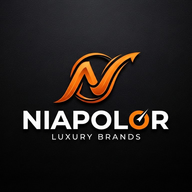
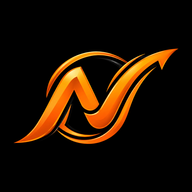
chore: update PWA assets and configuration
Refresh PWA icons to v3, update web manifest settings, and adjust cache headers for icons.

diff --git a/src/components/Footer.tsx b/src/components/Footer.tsx
@@ -1,14 +1,45 @@
-import React from 'react';
+import React, { useEffect, useState } from 'react';
 import { useStore } from '../context/StoreContext';
 import { 
   Phone, 
   Mail, 
   MapPin, 
-  Truck
+  Truck,
+  Download
 } from 'lucide-react';
+import {
+  getDeferredInstallPrompt,
+  isIosDevice,
+  isStandalonePWA,
+  triggerPwaInstallPrompt,
+} from '../lib/notifications';
 
 export const Footer: React.FC = () => {
   const { siteSettings, language, t, setCurrentView, setIsSupportModalOpen } = useStore();
+  const [canInstallPwa, setCanInstallPwa] = useState(false);
+  const [showIosTip, setShowIosTip] = useState(false);
+
+  useEffect(() => {
+    const refresh = () => {
+      setCanInstallPwa(!isStandalonePWA() && (Boolean(getDeferredInstallPrompt()) || isIosDevice()));
+    };
+    refresh();
+    window.addEventListener('echox_pwa_install_ready', refresh);
+    window.addEventListener('echox_pwa_installed', refresh);
+    return () => {
+      window.removeEventListener('echox_pwa_install_ready', refresh);
+      window.removeEventListener('echox_pwa_installed', refresh);
+    };
+  }, []);
+
+  const handleInstallClick = async () => {
+    if (getDeferredInstallPrompt()) {
+      const outcome = await triggerPwaInstallPrompt();
+      if (outcome === 'accepted') setCanInstallPwa(false);
+    } else if (isIosDevice()) {
+      setShowIosTip((prev) => !prev);
+    }
+  };
 
   const handleLinkClick = (view: string) => {
     setCurrentView(view);
@@ -51,6 +82,39 @@ export const Footer: React.FC = () => {
               <Truck className="w-4 h-4 text-[#FF6B00] shrink-0" />
               <span className="font-semibold text-[11px]">{t.footer.deliveryAllTunisia || 'شحن سريع وتوصيل لجميع الـ 24 ولاية'}</span>
             </div>
+
+            {canInstallPwa && (
+              <div className="space-y-2">
+                <button
+                  type="button"
+                  onClick={handleInstallClick}
+                  className="w-full p-2.5 bg-[#0B0B0D] dark:bg-[#141418] hover:border-[#FF6B00] text-white rounded-xl border border-[#23232A] text-xs font-bold flex items-center justify-between gap-2.5 transition-colors cursor-pointer"
+                >
+                  <span className="flex items-center gap-2.5">
+                    <img
+                      src="/pwa-any-192-v3.png"
+                      alt="NIAPOLOR App"
+                      width={24}
+                      height={24}
+                      className="w-6 h-6 rounded-lg object-cover shrink-0 border border-[#FF6B00]/35"
+                    />
+                    <span className="text-[11px]">
+                      {language === 'ar'
+                        ? 'تثبيت تطبيق NIAPOLOR على هاتفك'
+                        : language === 'fr'
+                        ? 'Installer l’application NIAPOLOR'
+                        : 'Install NIAPOLOR App'}
+                    </span>
+                  </span>
+                  <Download className="w-4 h-4 text-[#FF6B00] shrink-0" />
+                </button>
+                {showIosTip && (
+                  <p className="p-2.5 rounded-xl bg-white dark:bg-[#141418] border border-[#E6E2D8] dark:border-[#23232A] text-[10px] text-[#5A5854] dark:text-[#B5B0A8] leading-relaxed">
+                    على Safari: اضغط زر <strong>المشاركة (Share)</strong> ثم اختر <strong>إضافة إلى الشاشة الرئيسية (Add to Home Screen)</strong>.
+                  </p>
+                )}
+              </div>
+            )}
           </div>
 
           {/* 2. روابط التصفح السريعة */}

diff --git a/vite.config.ts b/vite.config.ts
@@ -16,14 +16,14 @@ const CORE_BRAND_IMAGES = [
   '/assets/images/product_drill_cordless_pro.webp',
   '/assets/images/product_automotive_headlight.webp',
   '/assets/images/product_digital_multimeter.webp',
+  '/manifest.json',
   '/manifest.webmanifest',
-  '/pwa-any-192-v2.png',
-  '/pwa-any-192-v2.webp',
-  '/pwa-any-512-v2.png',
-  '/pwa-any-512-v2.webp',
-  '/pwa-maskable-192-v2.png',
-  '/pwa-maskable-512-v2.png',
-  '/apple-touch-icon-v2.png',
+  '/pwa-any-192-v3.png',
+  '/pwa-any-512-v3.png',
+  '/pwa-maskable-192-v3.png',
+  '/pwa-maskable-512-v3.png',
+  '/apple-touch-icon-v3.png',
+  '/favicon-v3.png',
 ];
 
 function collectDistFiles(rootDir: string, currentDir: string, out: string[] = []): string[] {
@@ -44,7 +44,7 @@ function buildPrecacheManifest(distDir: string) {
   const allFiles = collectDistFiles(distDir, distDir).sort();
   const hash = crypto.createHash('sha256');
 
-  const coreSet = new Set<string>(['/', '/index.html', '/manifest.webmanifest']);
+  const coreSet = new Set<string>(['/', '/index.html', '/manifest.json', '/manifest.webmanifest']);
   const optionalSet = new Set<string>();
 
   for (const rel of allFiles) {
@@ -61,16 +61,19 @@ function buildPrecacheManifest(distDir: string) {
       rel === '/assets/images/niapolor-logo-full.webp' ||
       rel === '/assets/images/echox-logo.webp' ||
       rel === DARK_LOGO_PATH ||
-      rel === '/pwa-any-192-v2.png' ||
-      rel === '/pwa-any-512-v2.png' ||
-      rel === '/apple-touch-icon-v2.png'
+      rel === '/pwa-any-192-v3.png' ||
+      rel === '/pwa-any-512-v3.png' ||
+      rel === '/pwa-maskable-192-v3.png' ||
+      rel === '/pwa-maskable-512-v3.png' ||
+      rel === '/apple-touch-icon-v3.png' ||
+      rel === '/favicon-v3.png'
     ) {
       coreSet.add(rel);
       const stat = fs.statSync(path.join(distDir, rel.slice(1)));
       hash.update(`${rel}:${stat.size}:`);
     } else if (
       rel.startsWith('/assets/images/') ||
-      /^\/(pwa-|apple-touch-icon).*\.(png|webp)$/i.test(rel)
+      /^\/(pwa-|apple-touch-icon|favicon).*\.(png|webp)$/i.test(rel)
     ) {
       optionalSet.add(rel);
       const stat = fs.statSync(path.join(distDir, rel.slice(1)));
@@ -107,10 +110,10 @@ function echoxSwPrecachePlugin(): Plugin {
         res.setHeader('Cache-Control', 'no-cache, no-store, must-revalidate');
         res.end(
           JSON.stringify({
-            version: 'echox-dev-v3',
+            version: 'echox-dev-v4',
             generatedAt: new Date().toISOString(),
             shell: ['/', '/index.html'],
-            core: ['/', '/index.html', '/src/main.tsx', '/src/index.css', ...CORE_BRAND_IMAGES.slice(0, 3), '/manifest.webmanifest', '/pwa-any-192-v2.png'],
+            core: ['/', '/index.html', '/src/main.tsx', '/src/index.css', ...CORE_BRAND_IMAGES.slice(0, 3), '/manifest.json', '/manifest.webmanifest', '/pwa-any-192-v3.png'],
             optional: CORE_BRAND_IMAGES.slice(3),
           })
         );

diff --git a/public/sw.js b/public/sw.js
@@ -1,10 +1,10 @@
-/* NIAPOLOR Service Worker v3 — Offline PWA App Shell, Versioned Asset Caching & Web Push Alerts */
-const SW_FALLBACK_VERSION = 'echox-v3-fallback';
+/* NIAPOLOR Service Worker v4 — Offline PWA App Shell, Versioned Asset Caching & Web Push Alerts */
+const SW_FALLBACK_VERSION = 'echox-v4-fallback';
 const STATIC_PREFIX = 'echox-static-';
-const META_CACHE = 'echox-meta-v3';
-const API_CACHE = 'echox-api-v3';
-const IMAGE_CACHE = 'echox-images-v3';
-const FONT_CACHE = 'echox-fonts-v3';
+const META_CACHE = 'echox-meta-v4';
+const API_CACHE = 'echox-api-v4';
+const IMAGE_CACHE = 'echox-images-v4';
+const FONT_CACHE = 'echox-fonts-v4';
 const META_KEY = '/__echox_sw_meta__';
 const MAX_IMAGE_ENTRIES = 80;
 
@@ -32,6 +32,7 @@ const PRIVATE_OR_MUTATING_API_PREFIXES = [
 const FALLBACK_SHELL_URLS = [
   '/',
   '/index.html',
+  '/manifest.json',
   '/manifest.webmanifest',
   '/assets/images/niapolor-emblem.webp',
   '/assets/images/niapolor-badge.webp',
@@ -44,9 +45,12 @@ const FALLBACK_SHELL_URLS = [
   '/assets/images/product_drill_cordless_pro.webp',
   '/assets/images/product_automotive_headlight.webp',
   '/assets/images/product_digital_multimeter.webp',
-  '/pwa-any-192-v2.png',
-  '/pwa-any-512-v2.png',
-  '/apple-touch-icon-v2.png',
+  '/pwa-any-192-v3.png',
+  '/pwa-any-512-v3.png',
+  '/pwa-maskable-192-v3.png',
+  '/pwa-maskable-512-v3.png',
+  '/apple-touch-icon-v3.png',
+  '/favicon-v3.png',
 ];
 
 const GOOGLE_FONT_CSS_URL =
@@ -180,7 +184,7 @@ function isImagePath(url) {
   return (
     url.pathname.startsWith('/assets/images/') ||
     url.pathname.startsWith('/assets/aistudio/') ||
-    /^\/(pwa-|apple-touch-icon).*\.(png|webp|jpg|jpeg|ico)$/i.test(url.pathname) ||
+    /^\/(pwa-|apple-touch-icon|favicon).*\.(png|webp|jpg|jpeg|ico)$/i.test(url.pathname) ||
     /\.(webp|png|jpg|jpeg|gif|svg|ico)$/i.test(url.pathname)
   );
 }
@@ -555,8 +559,8 @@ self.addEventListener('push', (event) => {
   let payload = {
     title: 'NIAPOLOR',
     body: 'لديك إشعار جديد في المتجر.',
-    icon: '/pwa-any-192-v2.png',
-    badge: '/pwa-any-192-v2.png',
+    icon: '/pwa-any-192-v3.png',
+    badge: '/pwa-any-192-v3.png',
     tag: 'echox-general',
     url: '/',
     severity: 'info',
@@ -584,8 +588,8 @@ self.addEventListener('push', (event) => {
   event.waitUntil(
     self.registration.showNotification(payload.title || 'NIAPOLOR', {
       body: payload.body || '',
-      icon: payload.icon || '/pwa-any-192-v2.png',
-      badge: payload.badge || '/pwa-any-192-v2.png',
+      icon: payload.icon || '/pwa-any-192-v3.png',
+      badge: payload.badge || '/pwa-any-192-v3.png',
       tag: payload.tag || `echox-${Date.now()}`,
       renotify: payload.renotify !== false,
       requireInteraction: Boolean(payload.requireInteraction || isCritical),

diff --git a/src/components/Header.tsx b/src/components/Header.tsx
@@ -504,10 +504,17 @@ export default function Header(_props: HeaderProps) {
                   <button
                     type="button"
                     onClick={handleInstallPwa}
-                    className="w-full text-start flex items-center gap-2 px-3 py-2.5 rounded-xl bg-[#111113] dark:bg-[#1E1E22] text-white border border-[#27272E] hover:border-[#FF6B00] transition-colors cursor-pointer"
+                    className="w-full text-start flex items-center gap-2.5 px-3 py-2.5 rounded-xl bg-[#111113] dark:bg-[#1E1E22] text-white border border-[#27272E] hover:border-[#FF6B00] transition-colors cursor-pointer"
                   >
+                    <img
+                      src="/pwa-any-192-v3.png"
+                      alt=""
+                      width={24}
+                      height={24}
+                      className="w-6 h-6 rounded-lg object-cover shrink-0 border border-[#FF6B00]/30"
+                    />
+                    <span className="flex-1">تثبيت تطبيق NIAPOLOR</span>
                     <Download className="w-4 h-4 text-[#FF6B00] shrink-0" />
-                    <span>تثبيت تطبيق NIAPOLOR</span>
                   </button>
                   {showIosInstallTip && (
                     <div className="p-2.5 rounded-xl bg-[#FFFBEB] dark:bg-[#261D0B] border border-amber-200 dark:border-amber-800 text-[11px] text-amber-800 dark:text-amber-300 leading-relaxed">

diff --git a/index.html b/index.html
@@ -50,15 +50,16 @@
     />
     <meta name="twitter:image" content="https://echoxstore.pages.dev/assets/images/niapolor-logo-full.webp" />
 
-    <link rel="manifest" href="/manifest.webmanifest" />
+    <link rel="manifest" href="/manifest.json" />
     <meta name="mobile-web-app-capable" content="yes" />
     <meta name="apple-mobile-web-app-capable" content="yes" />
     <meta name="apple-mobile-web-app-status-bar-style" content="black-translucent" />
     <meta name="apple-mobile-web-app-title" content="NIAPOLOR" />
-    <link rel="icon" type="image/webp" sizes="192x192" href="/pwa-any-192-v2.webp" />
-    <link rel="icon" type="image/png" sizes="192x192" href="/pwa-any-192-v2.png" />
-    <link rel="icon" type="image/png" sizes="512x512" href="/pwa-any-512-v2.png" />
-    <link rel="apple-touch-icon" sizes="180x180" href="/apple-touch-icon-v2.png" />
+    <link rel="icon" type="image/png" sizes="64x64" href="/favicon-v3.png" />
+    <link rel="icon" type="image/png" sizes="192x192" href="/pwa-any-192-v3.png" />
+    <link rel="icon" type="image/png" sizes="512x512" href="/pwa-any-512-v3.png" />
+    <link rel="shortcut icon" href="/pwa-any-192-v3.png" />
+    <link rel="apple-touch-icon" sizes="180x180" href="/apple-touch-icon-v3.png" />
 
     <!-- Schema.org Structured Data -->
     <script type="application/ld+json">

diff --git a/src/lib/notifications.ts b/src/lib/notifications.ts
@@ -643,8 +643,8 @@ export async function showLocalNotificationFallback(event: AdminNotificationEven
     if (reg) {
       await reg.showNotification(event.title, {
         body: event.body,
-        icon: '/pwa-any-192-v2.png',
-        badge: '/pwa-any-192-v2.png',
+        icon: '/pwa-any-192-v3.png',
+        badge: '/pwa-any-192-v3.png',
         tag: `echox-${event.id}`,
         dir: 'rtl',
         lang: 'ar',
